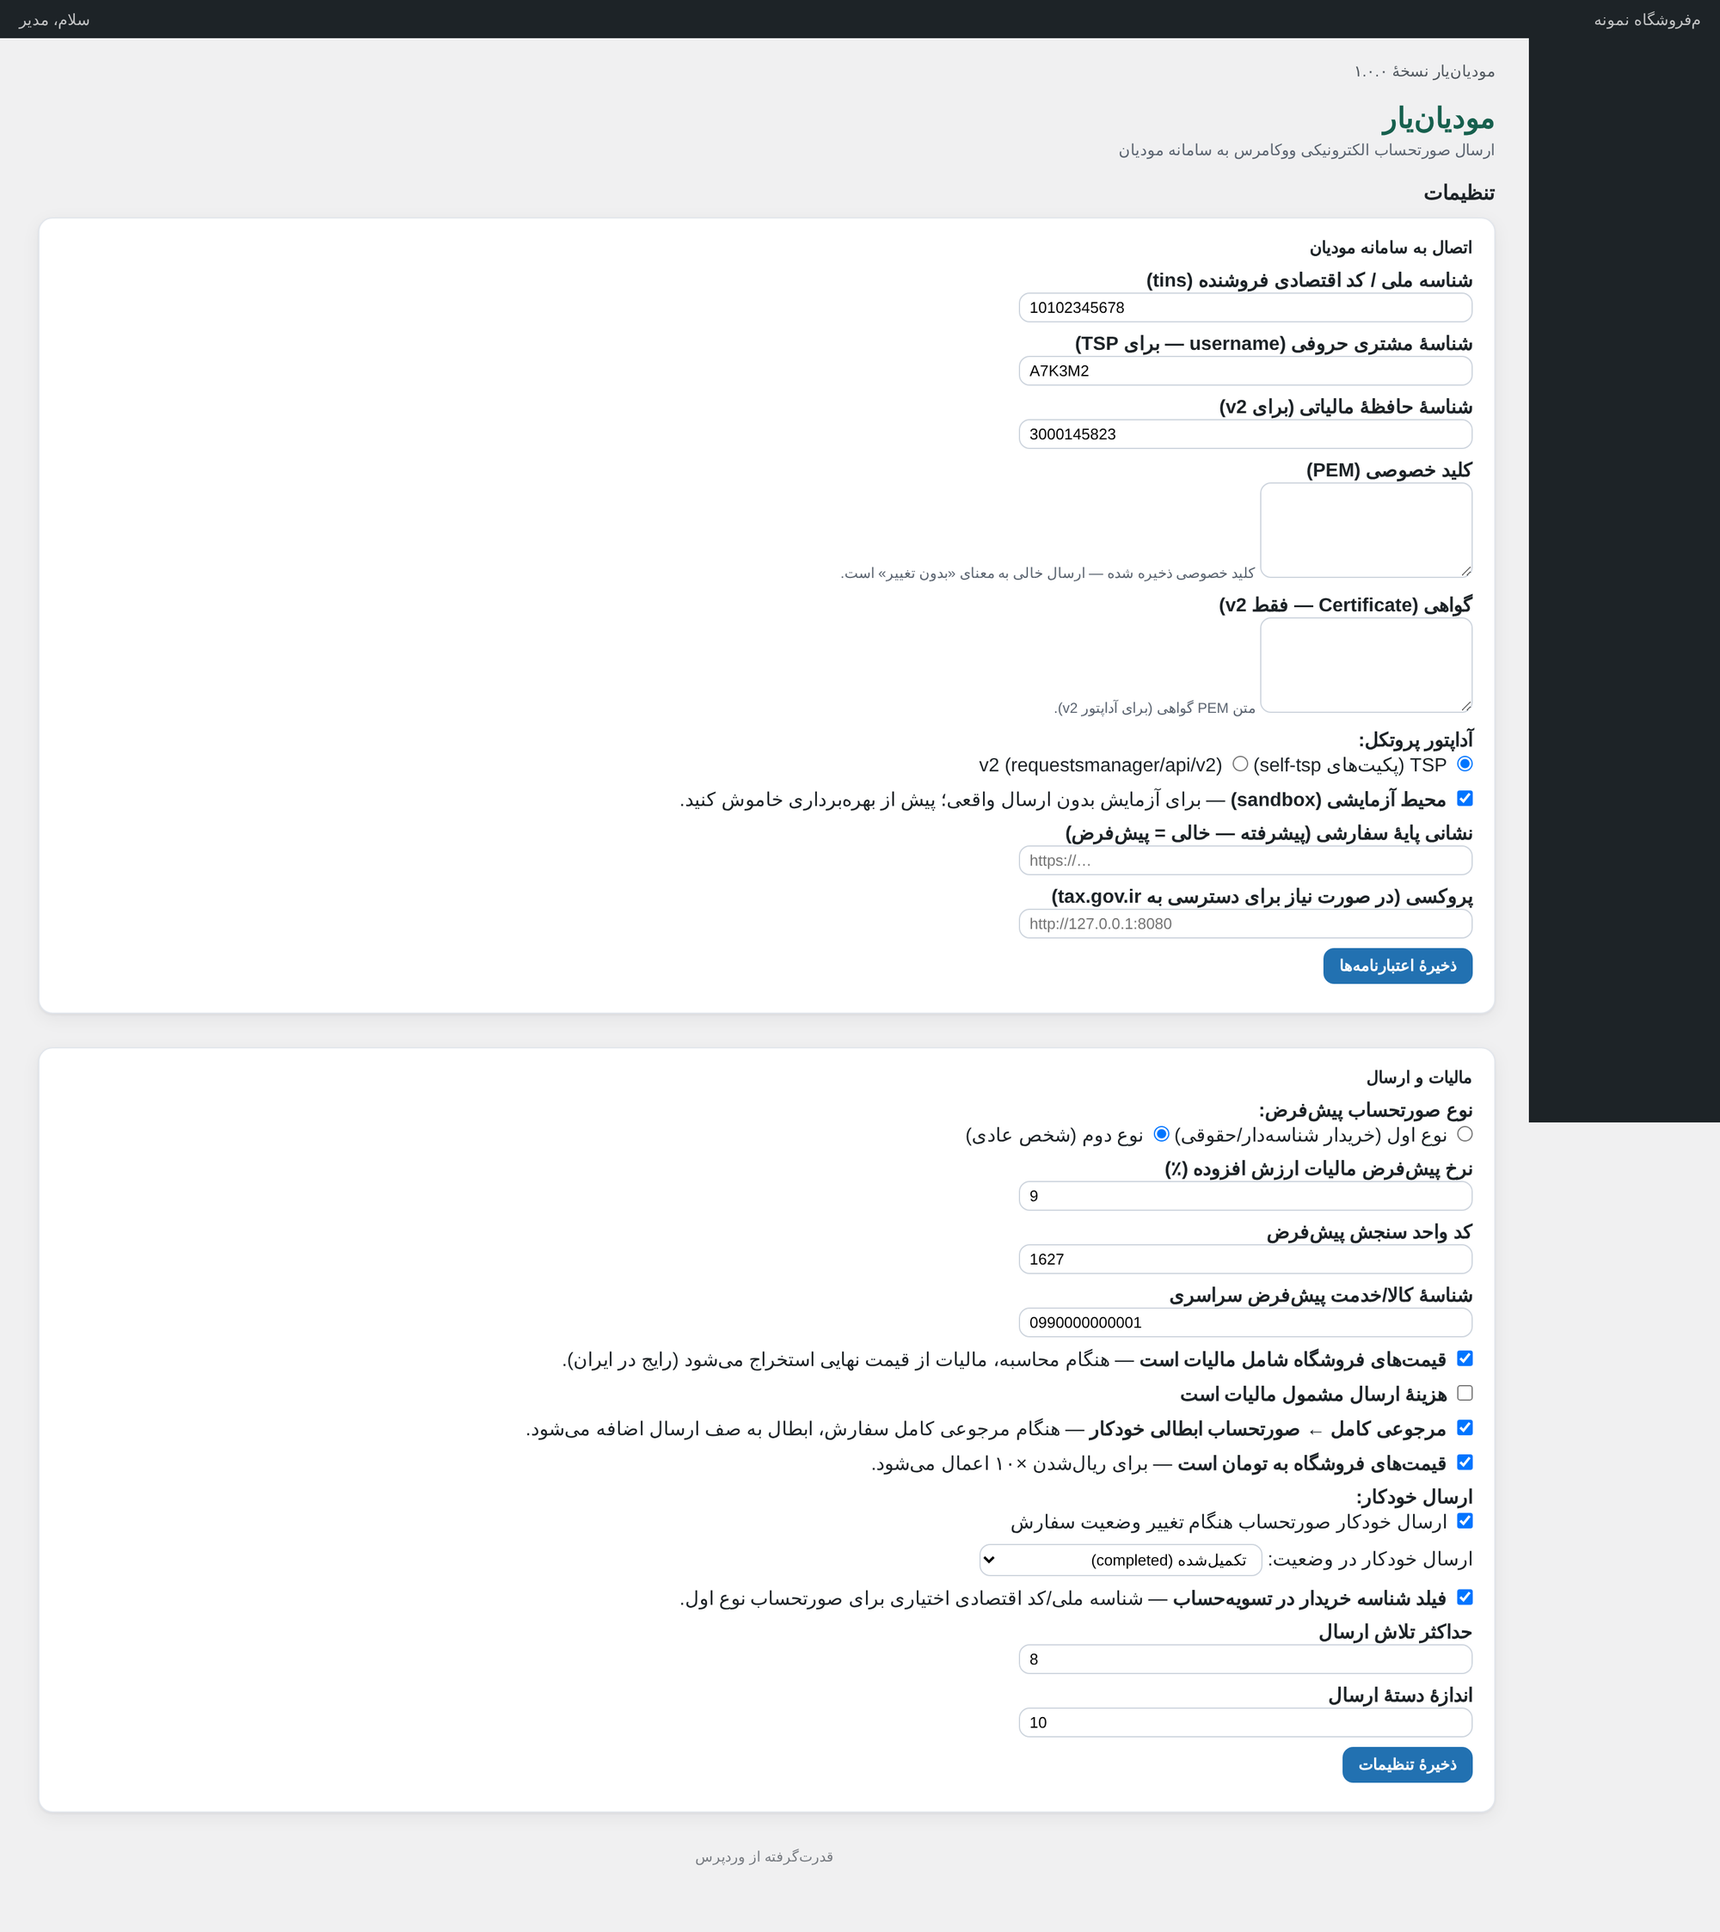
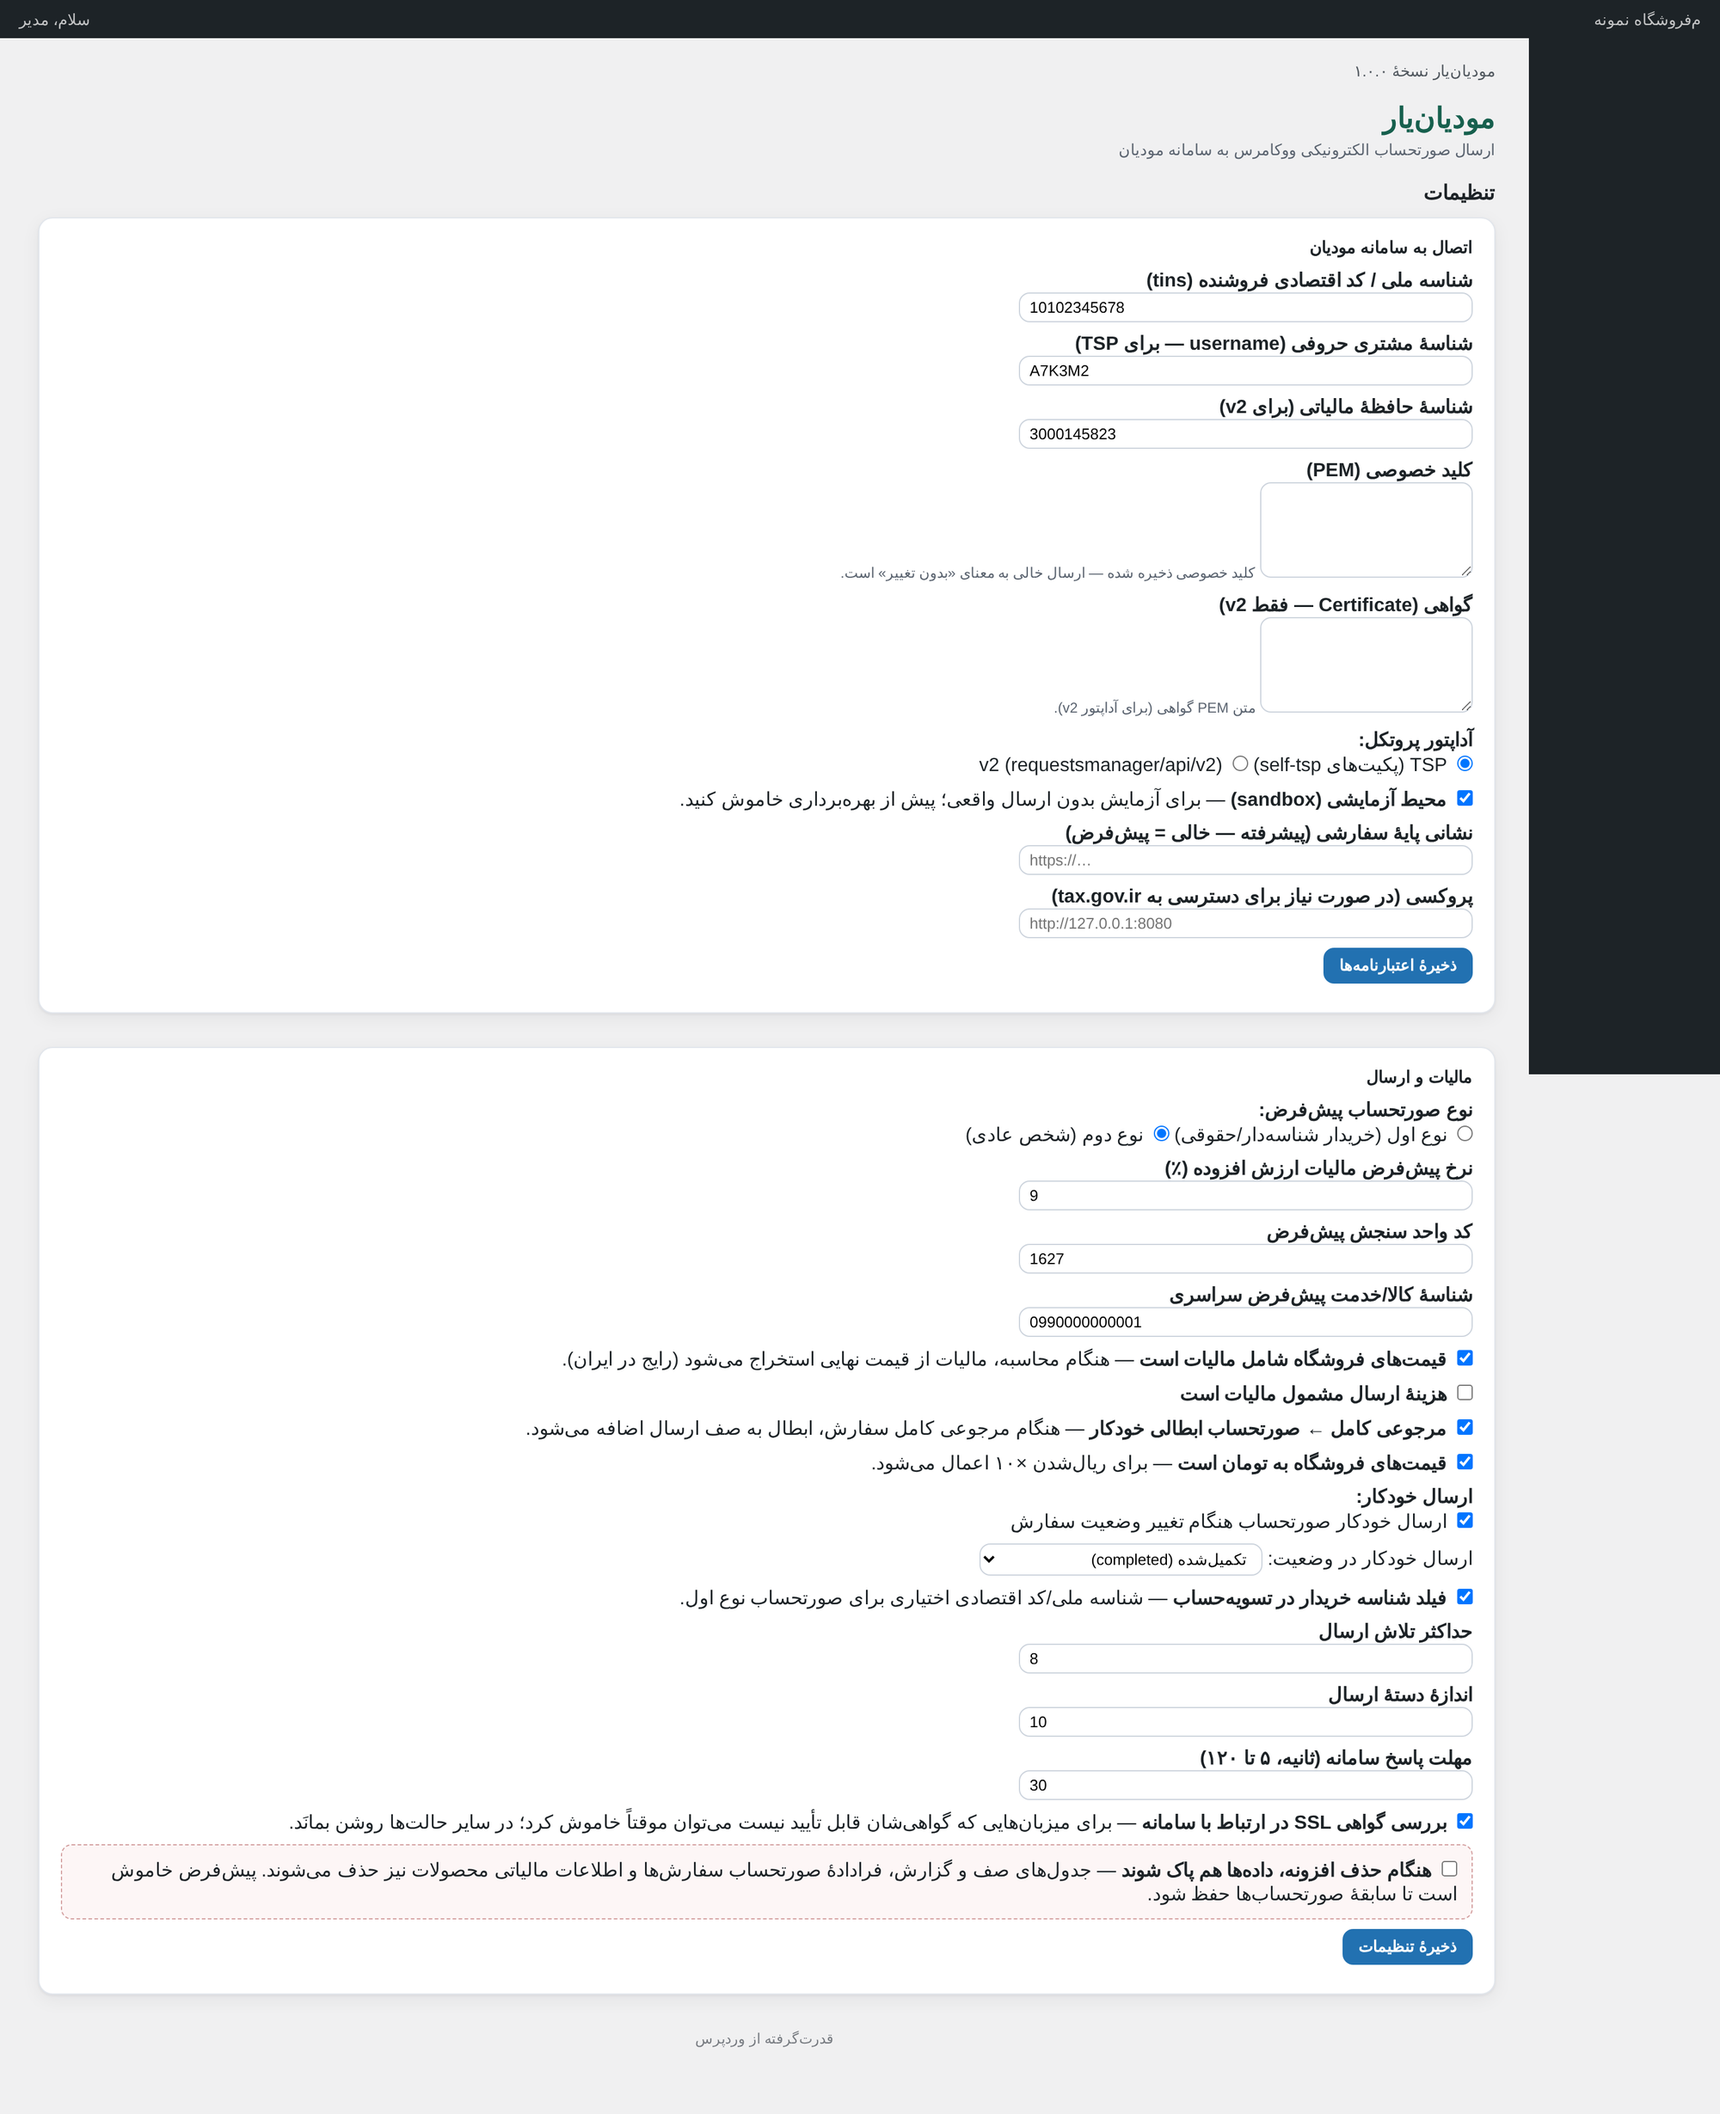
demo: self-test count 21→30, settings shot re-synced (advanced fields + danger zone), Vazirmatn OFL license

diff --git a/index.html b/index.html
@@ -140,7 +140,7 @@ footer .cta { justify-content:center; }
     <div class="stats">
       <div class="stat"><div class="n">۲</div><div class="t">پروتکل رسمی (TSP و v2)</div></div>
       <div class="stat"><div class="n">۵ دقیقه</div><div class="t">استعلام خودکار وضعیت</div></div>
-      <div class="stat"><div class="n">۲۱</div><div class="t">آزمون خودآزمون الگوریتمها</div></div>
+      <div class="stat"><div class="n">۳۰</div><div class="t">آزمون خودآزمون الگوریتمها</div></div>
       <div class="stat"><div class="n">۱۰۰٪</div><div class="t">فارسی — رابط راستچین با فونت وزیرمتن</div></div>
     </div>
     <div class="cta">
@@ -230,7 +230,7 @@ footer .cta { justify-content:center; }
       <div class="shot"><img src="shots/reports.png" alt="گزارشها"><div class="cap">گزارش ماهانهٔ شمسی — تفکیک نرخ، معاف/مشمول و خروجی CSV</div></div>
       <div class="shot"><img src="shots/invoice.png" alt="صورتحساب خریدار"><div class="cap">صفحهٔ صورتحساب چاپی خریدار با شمارهٔ مرجع و QR</div></div>
       <div class="shot"><img src="shots/log.png" alt="گزارش فعالیت"><div class="cap">گزارش فعالیت کامل با جستوجو و فیلتر سطح</div></div>
-      <div class="shot"><img src="shots/selftest.png" alt="خودآزمون"><div class="cap">خودآزمون ۲۱ آزمونی — الگوریتمها، تاریخ و رمزنگاری</div></div>
+      <div class="shot"><img src="shots/selftest.png" alt="خودآزمون"><div class="cap">خودآزمون ۳۰ آزمونی — الگوریتمها، تاریخ و رمزنگاری</div></div>
       <div class="shot"><img src="shots/dashboard.png" alt="پیشخوان"><div class="cap">پیشخوان — آمار ارسال و وضعیت کلی</div></div>
     </div>
   </div>
